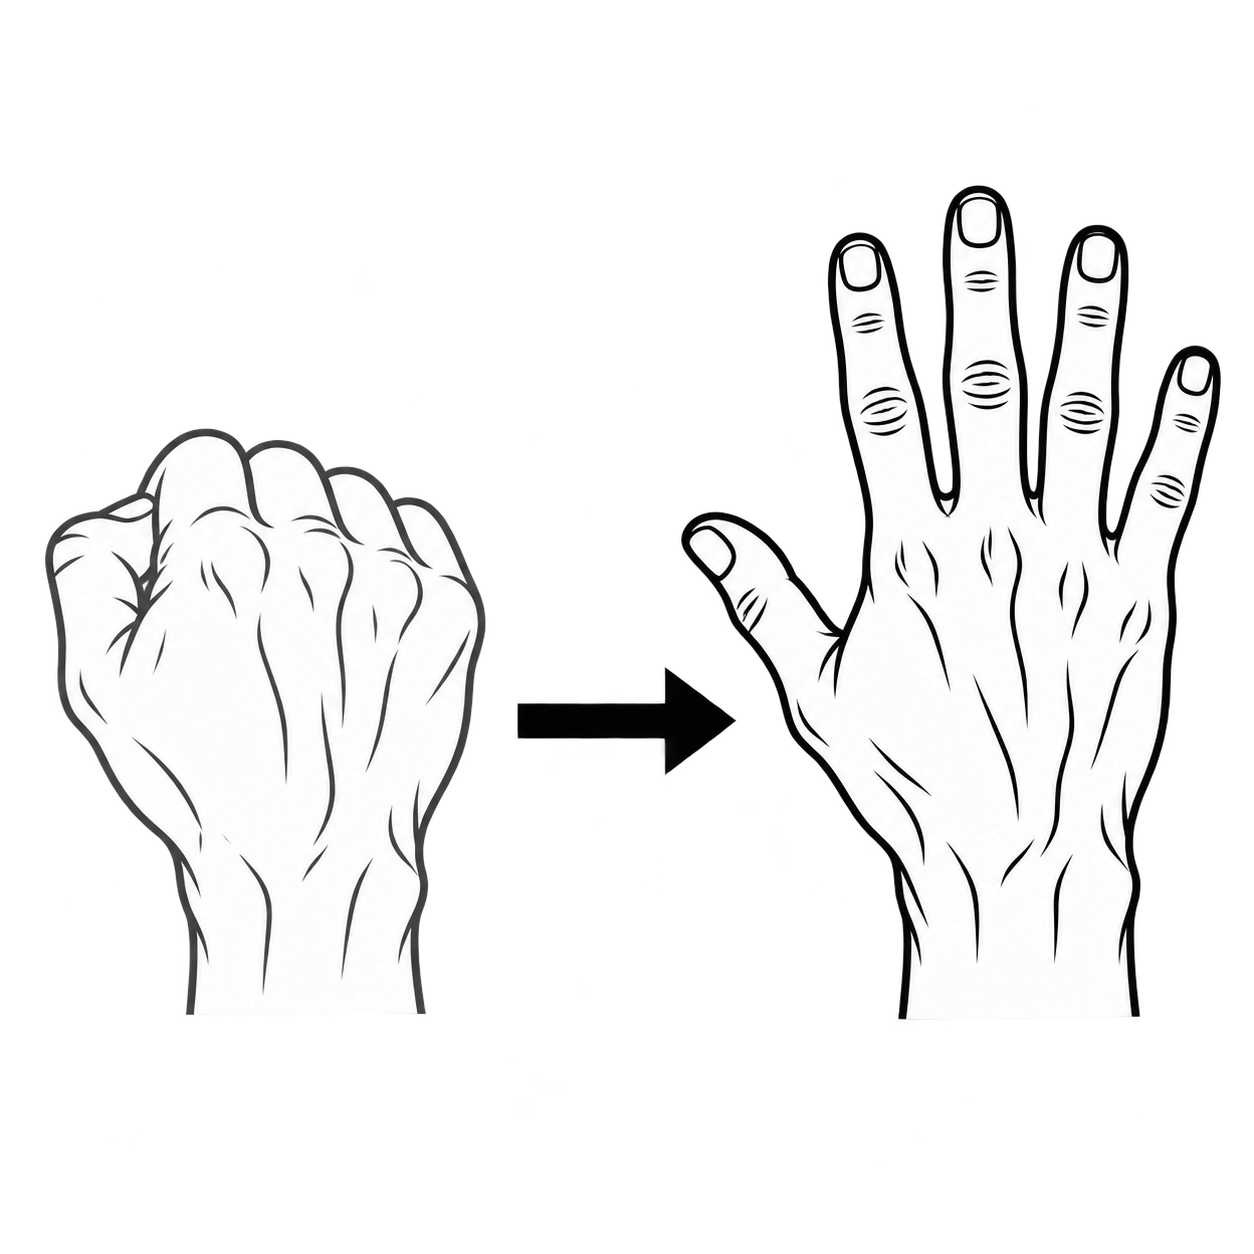
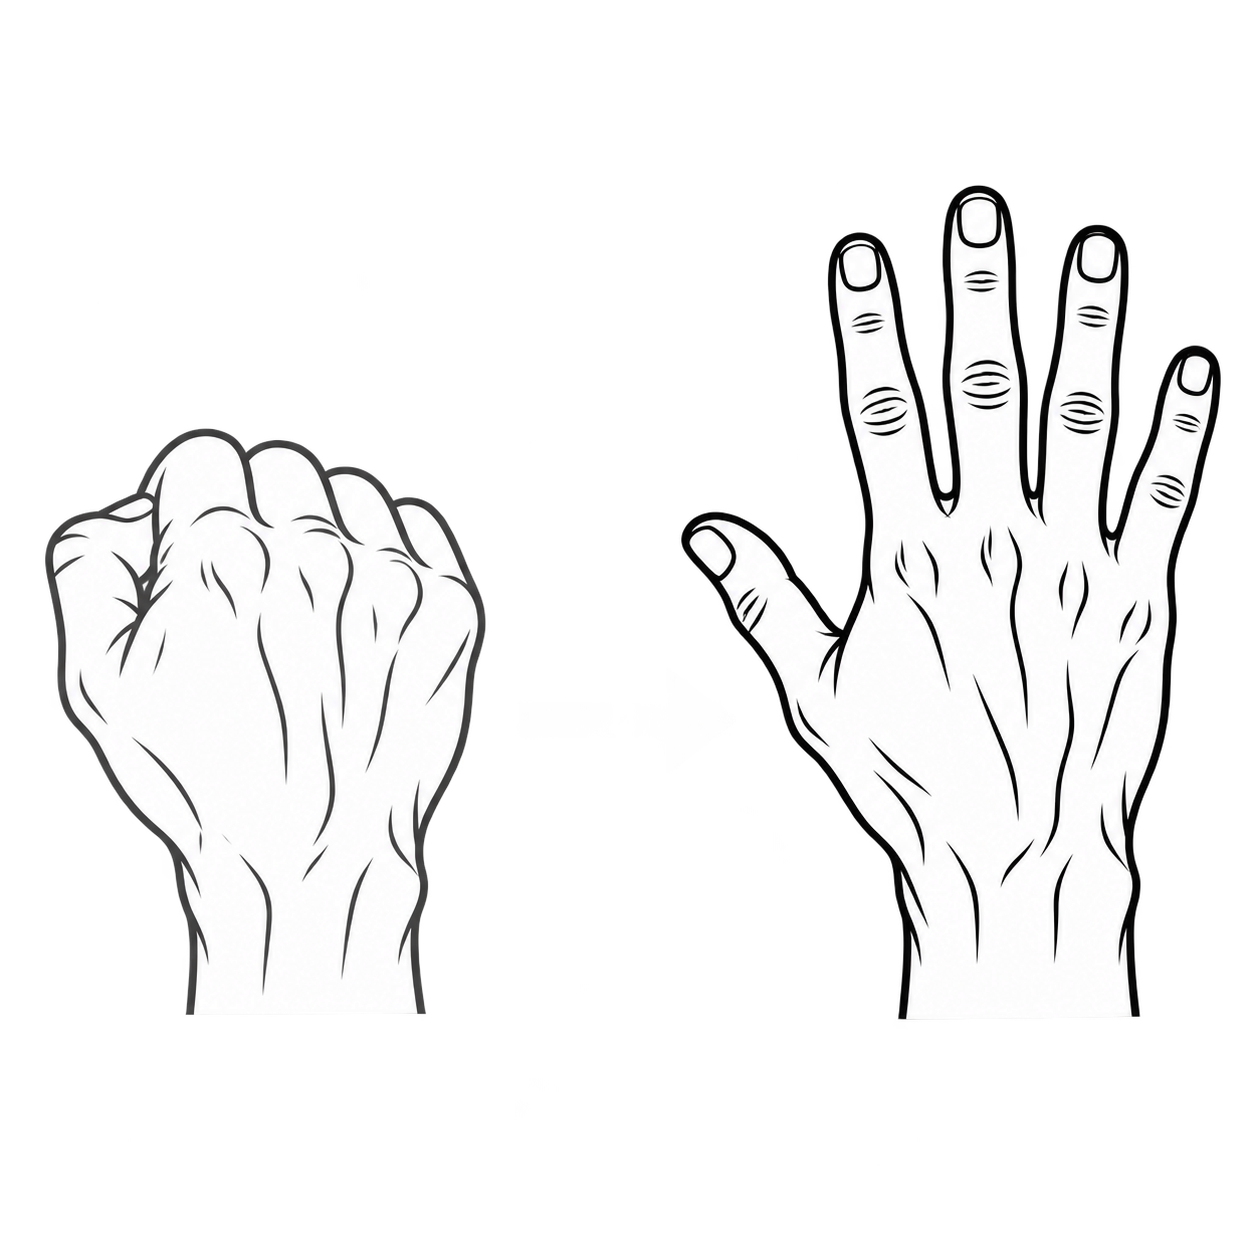
Remove sequence arrows from realistic gesture PNGs

Changed region(s): [[0.4043, 0.5287, 0.5909, 0.622]]

diff --git a/README.md b/README.md
@@ -29,7 +29,7 @@
 
 | 後綴 | 用途 |
 |---|---|
-| `-0-complete.svg` | 完整表意；新版 PNG 動態手勢左右分開呈現前後姿態與箭頭 |
+| `-0-complete.svg` | 完整表意；新版 PNG 動態手勢左右分開呈現前後姿態；僅重播保留旋轉箭頭 |
 | `-1-start.svg` | 動態手勢的起始姿態 |
 | `-2-end.svg` | 動態手勢的結束姿態 |
 
@@ -41,4 +41,4 @@
 
 依研究者提供的原九宮格（本國組）、黃色表格（非本國組）與 [HackMD 實拍](https://hackmd.io/vlS1KejZR96oRrO-DFbUiA) 核對。統一使用本人看自己右手的第一人稱視角，逐張核對掌背面與拇指位置。
 
-`realistic-` 為解剖線稿 PNG，以研究者重附的五張產圖為風格基準，補圖使用 OpenAI imagegen。左側灰線表示起始姿態、右側黑線表示結束姿態，動態圖在同一畫布左右分開，左灰表示先比的姿態、右黑表示後比的姿態；重播使用兩個順時針小箭頭。PNG 具有透明外背景與白色手部內底。原 SVG 與舊 PNG 保留供追溯，README 預覽引用新版本。
+`realistic-` 為解剖線稿 PNG，以研究者重附的五張產圖為風格基準，補圖使用 OpenAI imagegen。左側灰線表示起始姿態、右側黑線表示結束姿態，動態圖在同一畫布左右分開，左灰表示先比的姿態、右黑表示後比的姿態；不使用表示前後順序的向右箭頭；重播使用兩個順時針小箭頭。PNG 具有透明外背景與白色手部內底。原 SVG 與舊 PNG 保留供追溯，README 預覽引用新版本。
